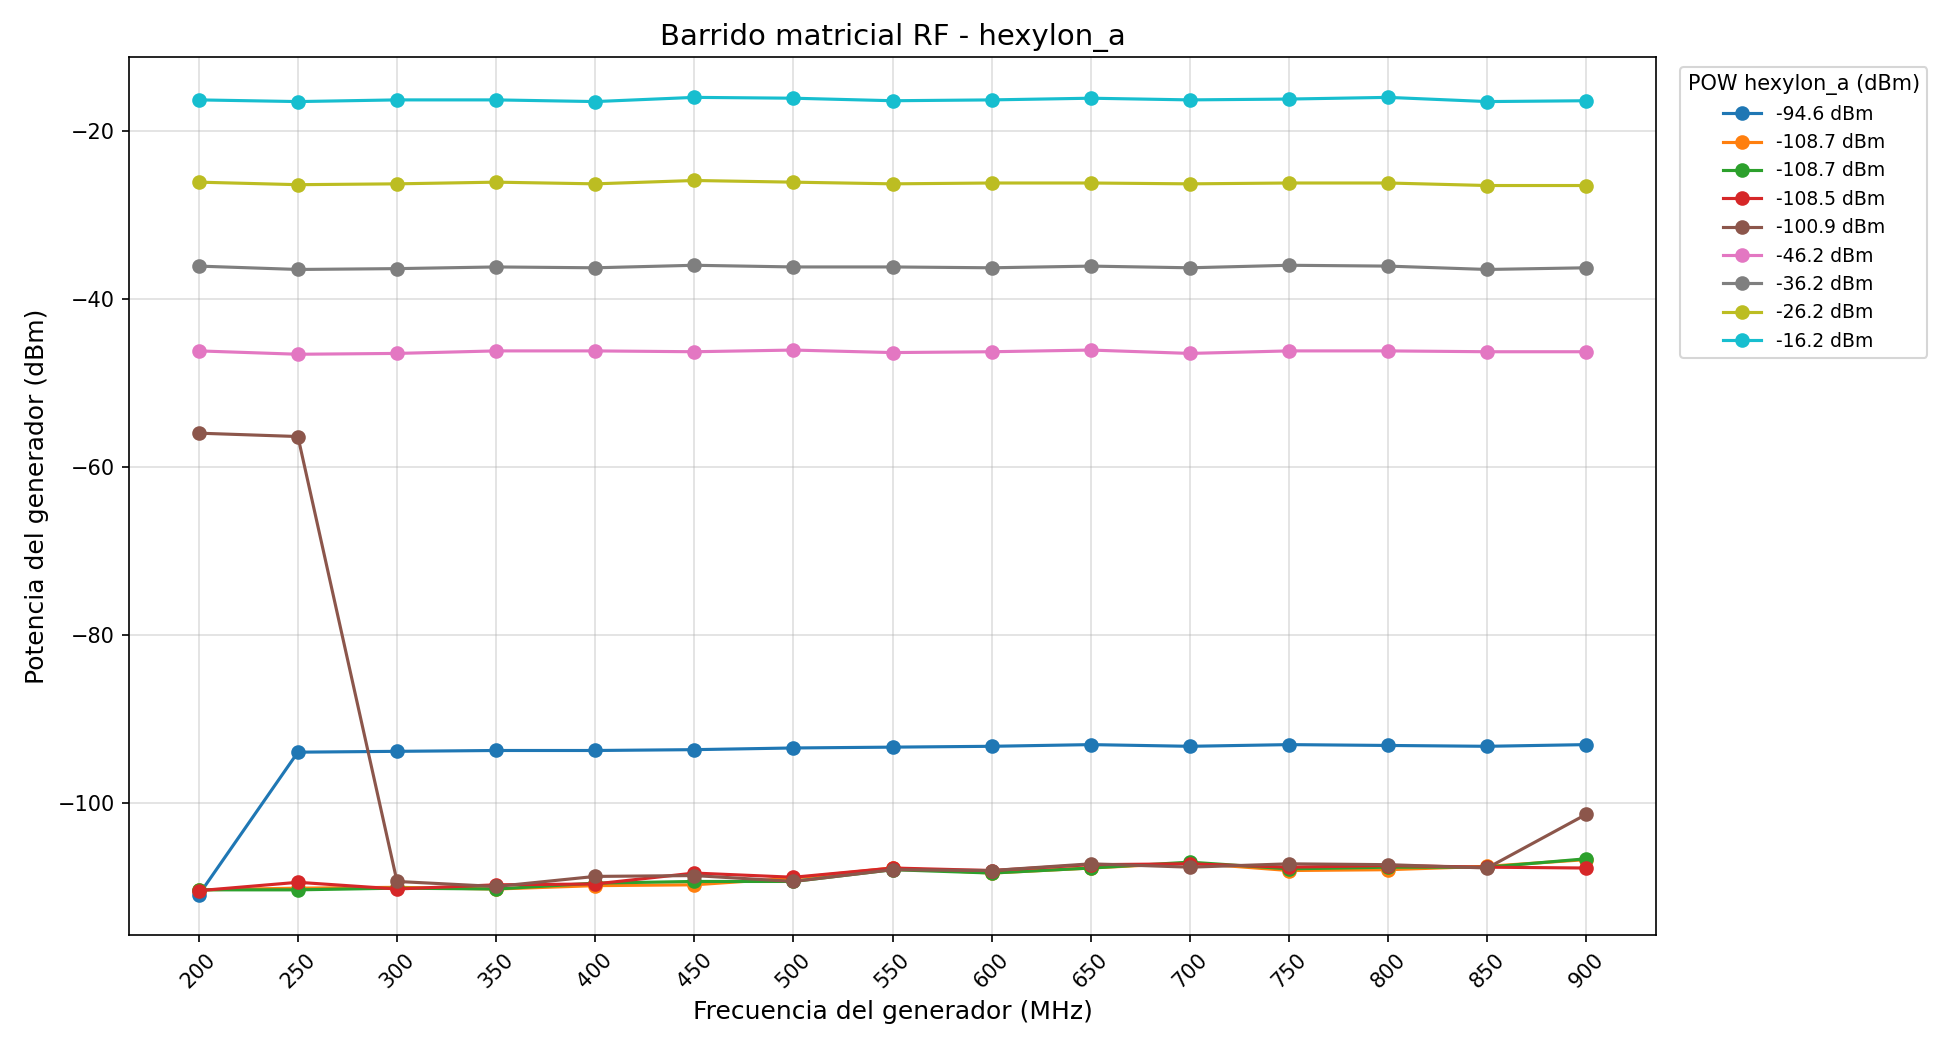
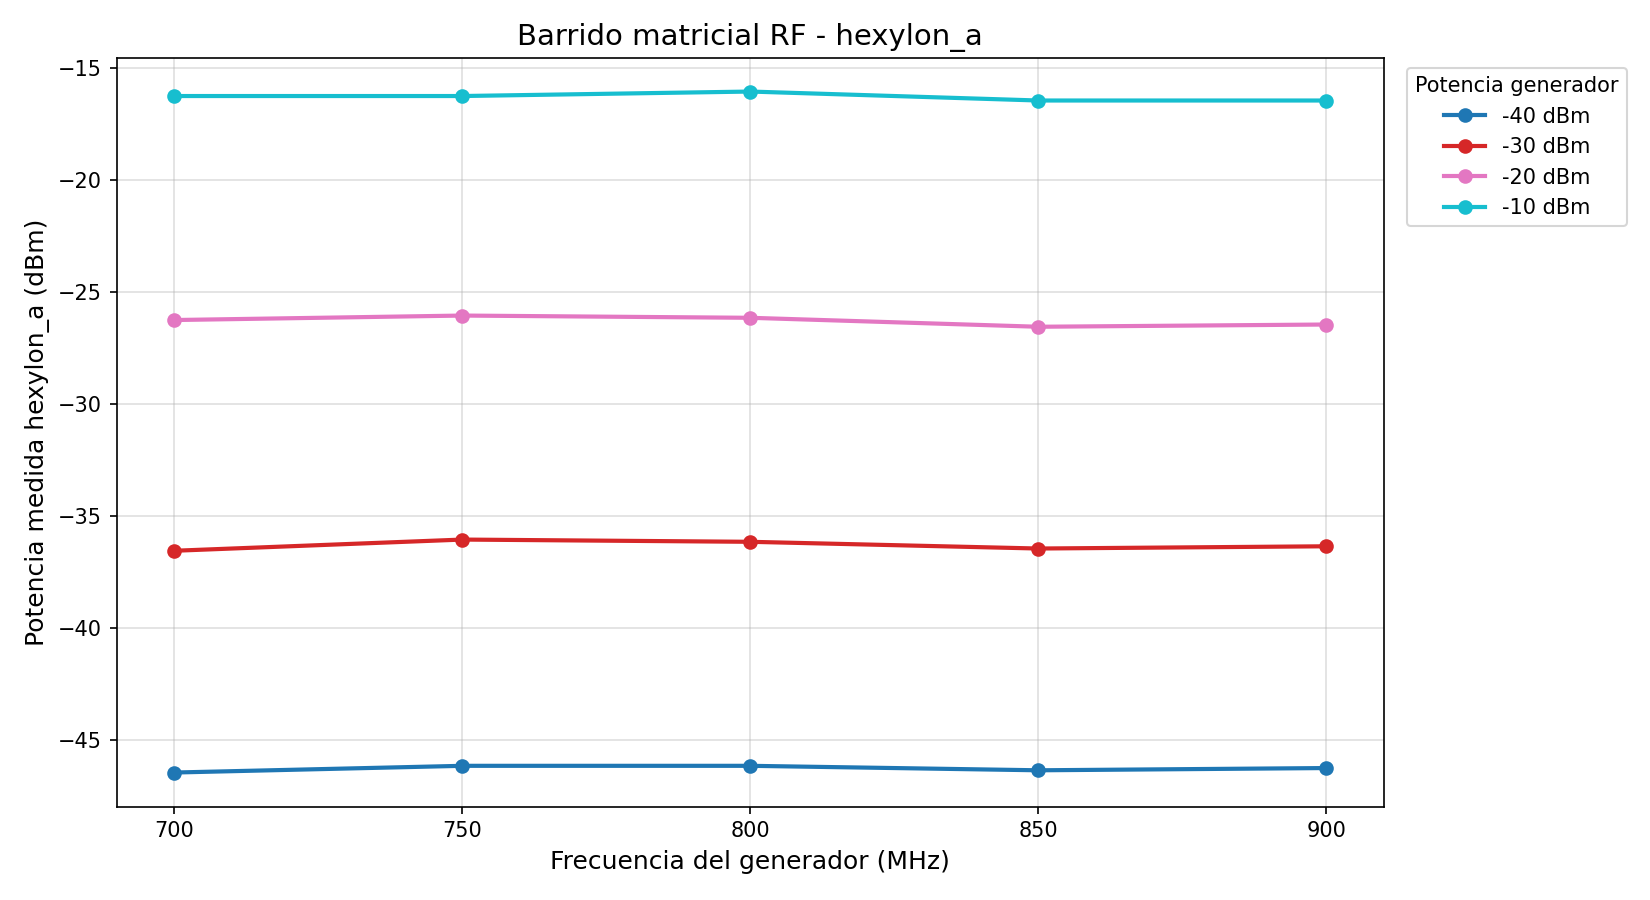
Commit final: muchas gracias por todo

diff --git a/docs/caso_uso_barrido_matricial.md b/docs/caso_uso_barrido_matricial.md
@@ -49,8 +49,7 @@ Cliente LLM (chat)
 El usuario introduce en el chat el siguiente prompt en lenguaje natural:
 
 ```
-Barrido matricial frecuencia/potencia: 200-900 MHz paso 50 MHz;
--10 a -90 dBm paso -10 dB; equipos hexylon_a, hexylon_b
+Barrido matricial frecuencia/potencia: 700-900 MHz paso 50 MHz; -10 a -40 dBm paso -10 dB; equipos hexylon_a
 ```
 
 El cliente LLM interpreta este prompt y lanza automáticamente un `MatrixSweepExecutor` con los parámetros extraídos:
